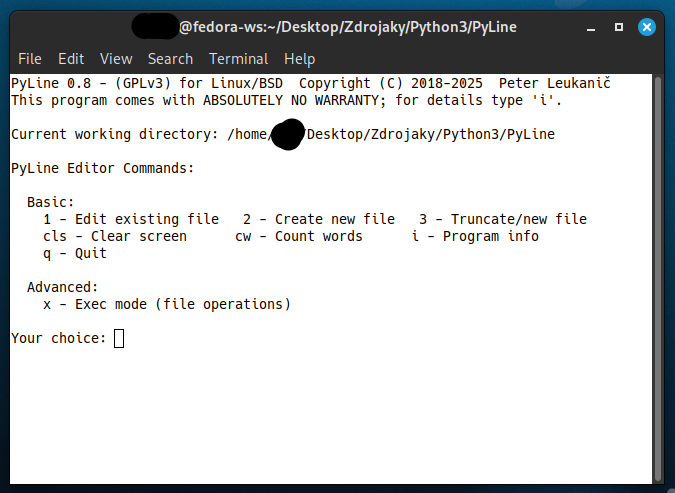
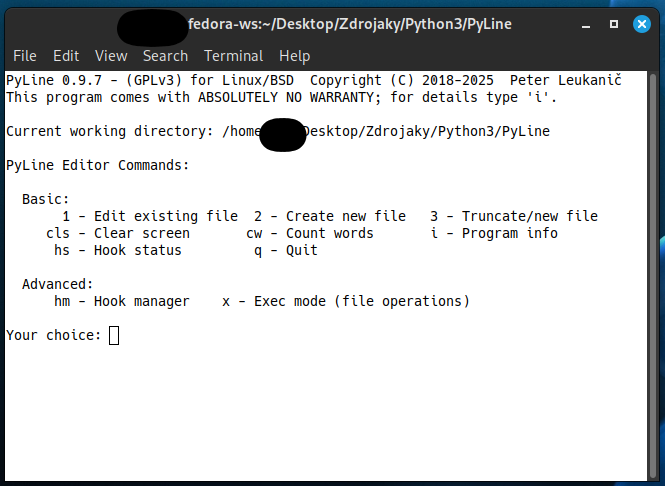
docs (README): Adding new screshots

Changed region(s): [[0.0, 0.0, 1.0, 1.0]]

diff --git a/README.md b/README.md
@@ -55,6 +55,12 @@ Example of line selection:
 After pasting the selection from clipboard:
 ![PyLine v-Paste Selected](scrshots/paste-lines.png)
 
+Execmode(Filemanager):
+![PyLine Execmode](scrshots/exec.png)
+Hook manager:
+![PyLine Hm](scrshots/hook-mgr.png)
+  
+![PyLine Hm-ls](scrshots/hook-mgr-ls.png)
 ## Installation
 
 1st method: Manual run
